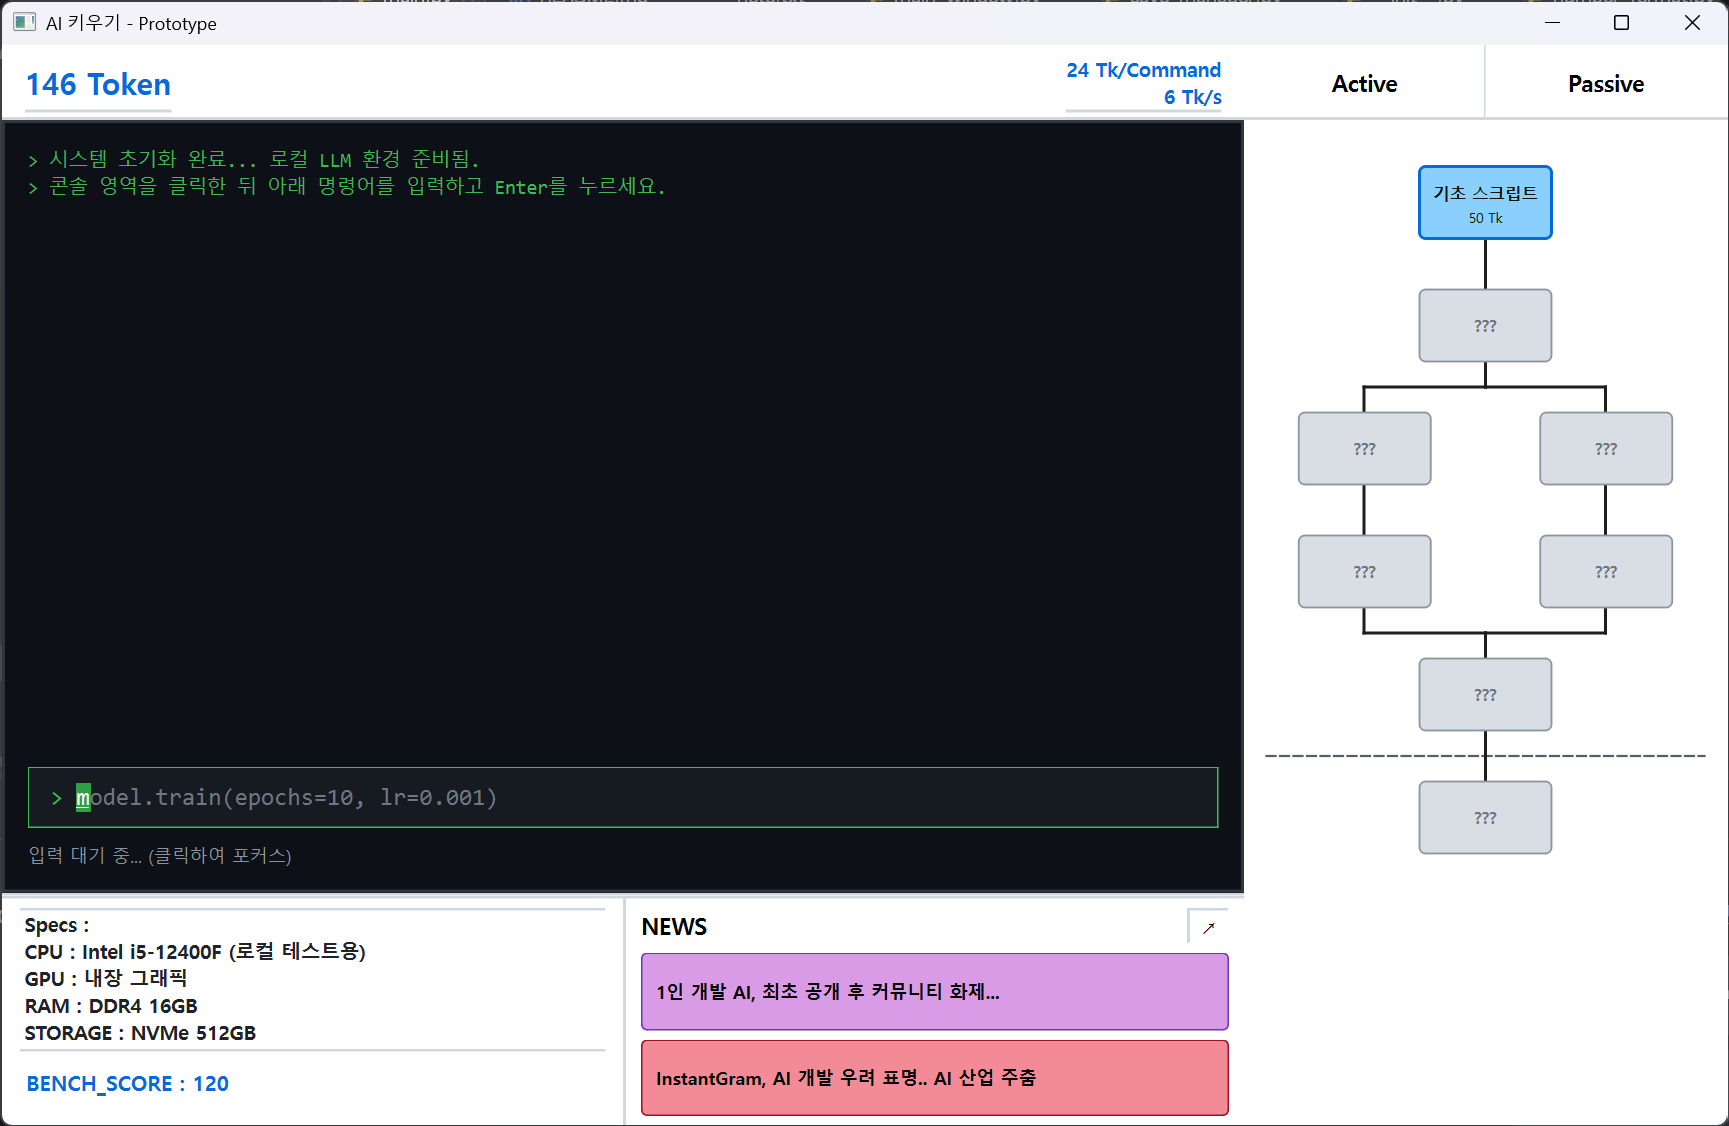
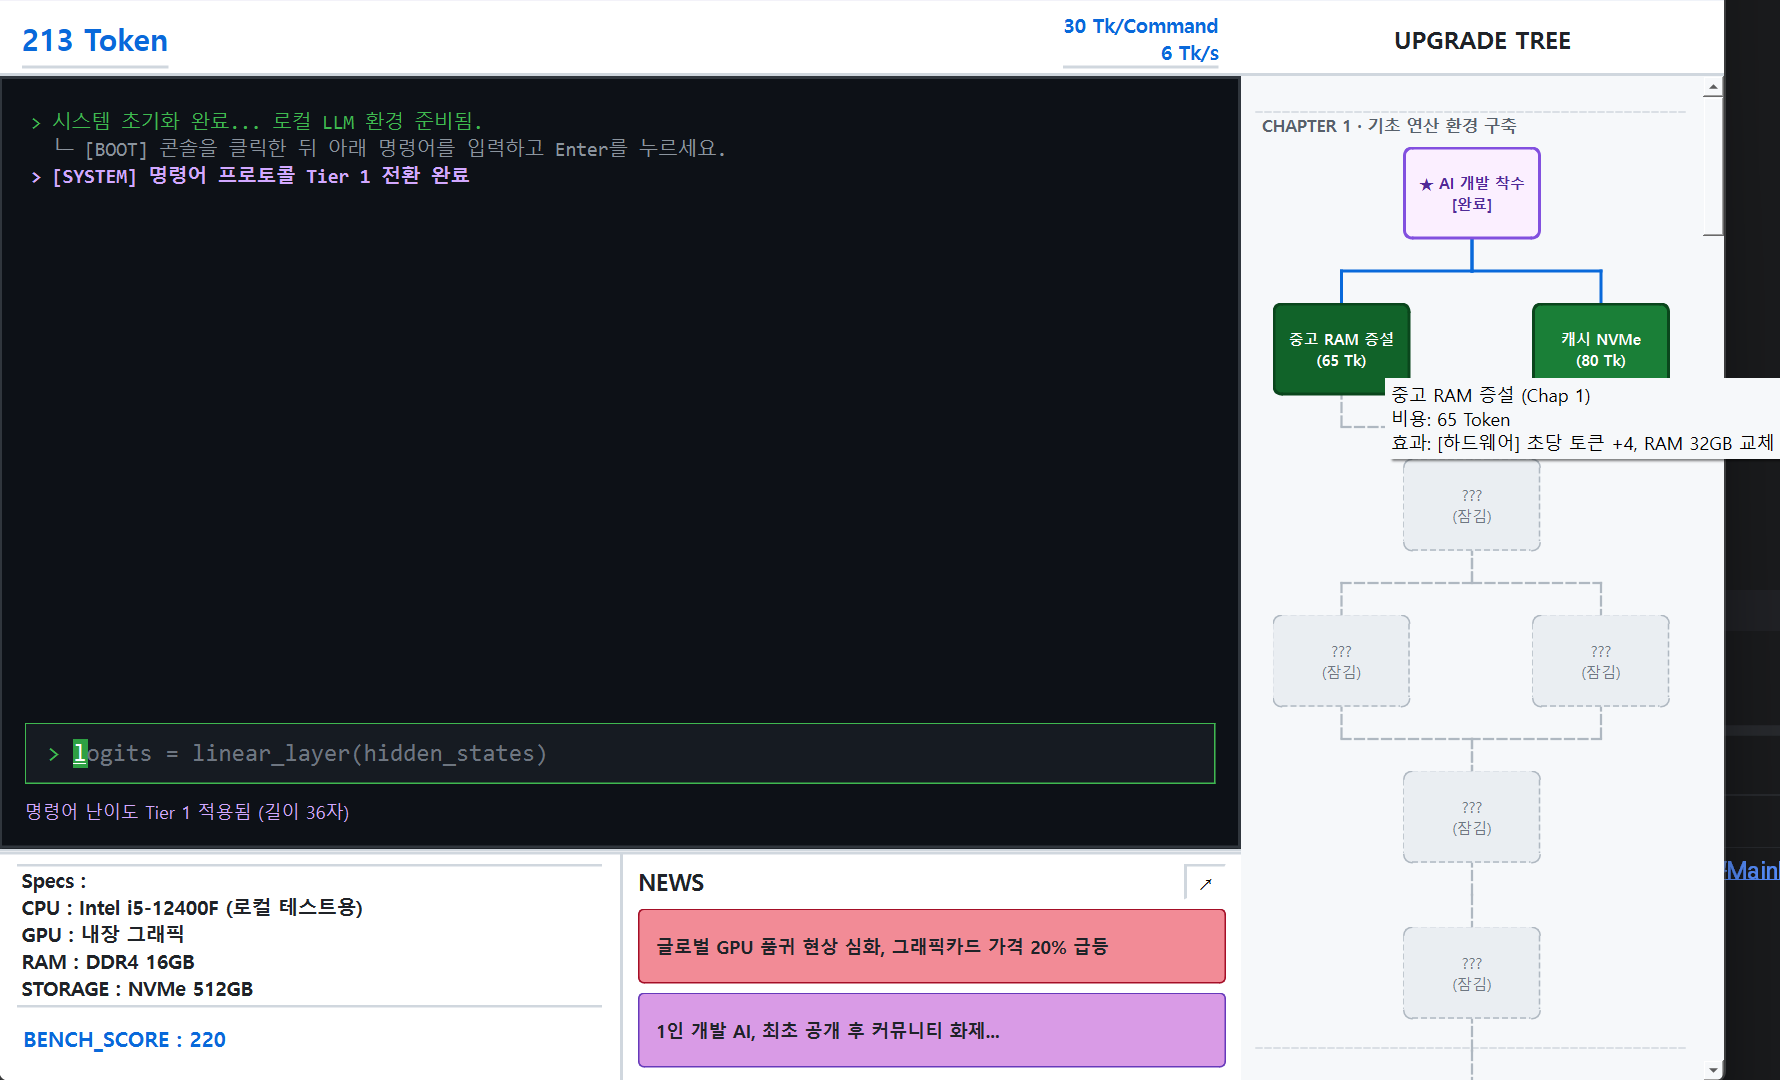
프로토타입 이미지 업데이트

Changed region(s): [[0.0, 0.0, 1.0, 1.0], [0.812, 0.8861, 0.8433, 0.9167]]

diff --git a/README.md b/README.md
@@ -3,7 +3,7 @@
 
 ---
 
-2026/11/17 기준 구현 화면
+2026/11/19 기준 구현 화면
 <img src=Prototype.png>
 
 > > 수정 예정 사항 및 개발 예정 사항  
